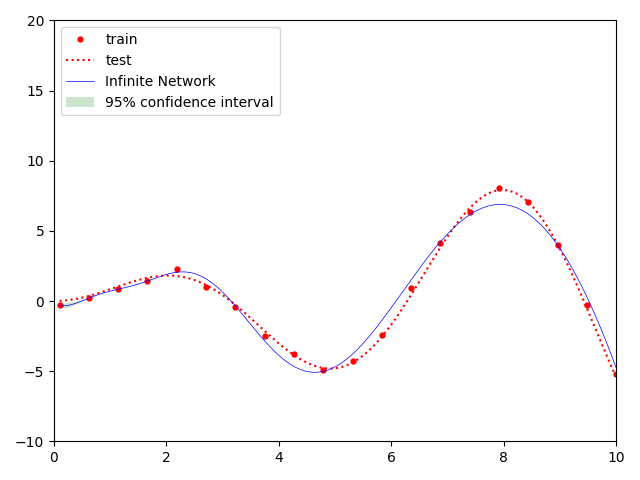
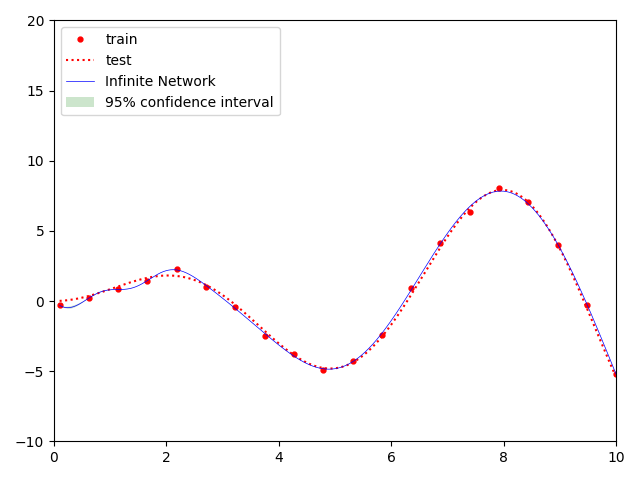
Added NTK example

diff --git a/ntk.py b/ntk.py
@@ -23,10 +23,22 @@ test_xs = x = np.reshape(np.linspace(0.1, 10, test_points), (1, -1)).T
 test_xs = np.reshape(test_xs, (test_points, 1))
 test_ys = target_fn(test_xs)
 
+ResBlock = stax.serial(
+    stax.FanOut(2),
+    stax.parallel(
+        stax.serial(
+            stax.Erf(),
+            stax.Dense(512, W_std=1.1, b_std=0),
+        ),
+        stax.Identity()
+    ),
+    stax.FanInSum()
+)
+
 init_fn, apply_fn, kernel_fn = stax.serial(
-    stax.Dense(2, W_std=2.5, b_std=0.05), stax.Erf(),
-    stax.Dense(2, W_std=2.5, b_std=0.05), stax.Erf(),
-    stax.Dense(1)
+    stax.Dense(512, W_std=1, b_std=0),
+    ResBlock, ResBlock, stax.Erf(),
+    stax.Dense(1, W_std=1.5, b_std=0)
 )
 
 kernel_fn = jit(kernel_fn, static_argnums=(2,))
